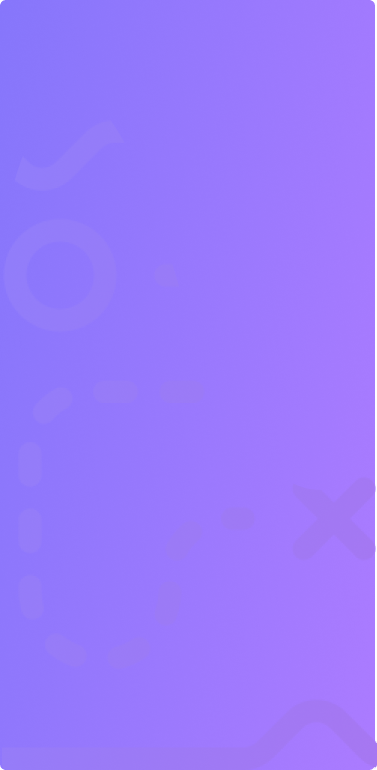
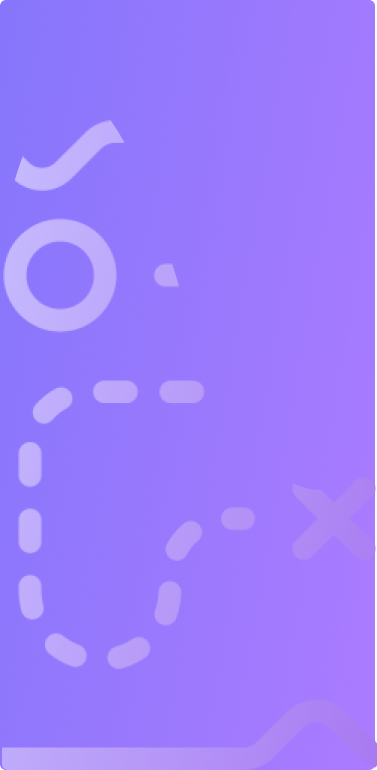
style

diff --git a/components/Pet.js b/components/Pet.js
@@ -1,6 +1,6 @@
 import { StatusBar } from 'expo-status-bar';
 import React from 'react';
-import { StyleSheet, Text, View, Image, TouchableHighlight } from 'react-native';
+import { StyleSheet, Text, View, Image, TouchableHighlight, ImageBackground } from 'react-native';
 import { Rating, Overlay } from 'react-native-elements';
 
 
@@ -10,16 +10,16 @@ export default class Pet extends React.Component {
     this.state = {
       happiness: 50,
       isVisible: false,
+      age: false
     }
   }
 
+
+
   render() {
     return (
-      <View>
-        <Overlay isVisible={this.state.isVisible}
-          onBackdropPress={() => this.setState({ isVisible: false })}>
-          <Text>Stats here</Text>
-        </Overlay>
+      
+      <View style={styles.container}>
         <View>
           <Rating
             type='heart'
@@ -29,24 +29,24 @@ export default class Pet extends React.Component {
           />
           <TouchableHighlight onPress={() => this.setState({ isVisible: true })}>
           <Image
-            style={styles.tinyLogo}
+            style={this.age ? styles.mediumLogo  : styles.smallLogo} 
             source={require('../assets/jack-russel-looping.gif')}
           />
           </TouchableHighlight>
           <View style={{ flex: 1, flexDirection: 'row', justifyContent: 'space-between', alignItems: 'stretch', marginHorizontal: 20 }}>
             <View style={{ flex: 1, height: 50 }} >
-              <View><Text style={{ color: "grey" }}> Dog - Jack Russel</Text>
+              <View><Text style={styles.boldText}> Dog - Beagle</Text>
               </View>
               <View>
-                <Text>John Smith</Text>
+                <Text style={styles.text}>Buddy The Good Boi</Text>
               </View>
             </View>
             <View style={{ flex: 1, height: 50, alignItems: 'flex-end' }} >
               <View>
-                <Text style={{ color: "grey" }}> Birthdate</Text>
+                <Text style={styles.boldText}> Birthdate</Text>
               </View>
               <View>
-                <Text>
+                <Text style={styles.text}>
                   10 July 2020
                 </Text>
               </View>
@@ -54,6 +54,7 @@ export default class Pet extends React.Component {
           </View>
         </View>
       </View>
+      
     )
   }
 };
@@ -61,11 +62,34 @@ export default class Pet extends React.Component {
 const styles = StyleSheet.create({
   container: {
     flex: 1,
-    backgroundColor: '#fff',
-    marginTop: 20
+    justifyContent: 'center',
+    alignItems: 'center',
   },
-  tinyLogo: {
-    width: 400,
+  text: {
+    marginTop: 10,
+    color: "grey",
+    fontSize: 12,
+    fontWeight: "bold"
+  },
+  boldText: {
+    marginTop: 10,
+    color: "black",
+    fontSize: 12,
+    fontWeight: "bold",
+  },
+  smallLogo: {
+    width: 300,
+    height: 200,
+    marginVertical: 75,
+  },
+  mediumLogo: {
+    width: 300,
     height: 300,
+    marginBottom: 25,
+  },
+  image: {
+    flex: 1,
+    resizeMode: "cover",
+    padding: 90,
   },
 });

diff --git a/screens/SelectAvatar.js b/screens/SelectAvatar.js
@@ -5,9 +5,10 @@ import { TouchableOpacity } from 'react-native-gesture-handler';
 
 export default function SelectAvatar(props) {
     return (
+        <ImageBackground source={require('./back.png')} style={styles.image}>
         <View style={styles.container}>
             <Text style={styles.text}>Choose Your Pet:</Text>
-            <ImageBackground source={require('./back.png')} style={styles.image}>
+            
             <Image
             style={styles.tinyLogo}
             source={require('./kitten.png')}
@@ -32,22 +33,21 @@ export default function SelectAvatar(props) {
             <TouchableOpacity style={styles.button} onPress={() => props.signedIn()}>
           <Text style={styles.buttonText}> PICK ME! </Text>
         </TouchableOpacity>
-        </ImageBackground>
 
         </View>
+        </ImageBackground>
     )
 
 }
 
 const styles = StyleSheet.create({
     container : {
-      backgroundColor: "#8E7EFB",
       flex: 1,
       justifyContent: 'center',
-      alignItems: 'center'
+      alignItems: 'center',
     },
     text: {
-        marginTop: 100,
+        marginBottom: 50,
         color: "black",
         fontSize: 30,
         fontWeight: "bold"
@@ -61,7 +61,7 @@ const styles = StyleSheet.create({
     image: {
       flex: 1,
       resizeMode: "cover",
-      justifyContent: "center"
+      justifyContent: "center",
     },
     button : {
         backgroundColor:'rgba(255, 255, 255, 0.3)',

diff --git a/screens/home.js b/screens/home.js
@@ -1,26 +1,33 @@
 import * as React from 'react';
-import { StyleSheet, Text, View } from 'react-native';
+import { StyleSheet, Text, View, ImageBackground } from 'react-native';
 import { NavigationContainer } from '@react-navigation/native';
 import { createBottomTabNavigator } from '@react-navigation/bottom-tabs';
 import Pet from '../components/Pet'
 
 function HomeScreen() {
   return (
+    <ImageBackground source={require('./back_light.png')} style={styles.image}>
     <View style={styles.container }>
       <Pet /> 
     </View>
+    </ImageBackground>
   );
 }
 
 const styles = StyleSheet.create({
   container: {
     flex: 1,
-    backgroundColor: '#fff',
     marginTop: 20
   },
   tinyLogo: {
     width: 400,
     height: 300,
+  },
+  image: {
+    flex: 1,
+    resizeMode: "cover",
+    padding: 90,
+    
   },
 });
 export default HomeScreen;

diff --git a/App.js b/App.js
@@ -30,7 +30,6 @@ export default function App() {
           <Tab.Screen name="Home" component={HomeScreen} />
           <Tab.Screen name="Map" component={MapScreen} />
           <Tab.Screen name="Chat" component={ChatScreen} />
-          <Tab.Screen name="Settings" component={SettingsScreen} />
           <Tab.Screen name="Game" component={GameScreen} />
         </Tab.Navigator>
       </NavigationContainer>

diff --git a/screens/LogIn.js b/screens/LogIn.js
@@ -51,7 +51,7 @@ const styles = StyleSheet.create({
   image: {
     flex: 1,
     resizeMode: "cover",
-    justifyContent: "center"
+    paddingHorizontal: 90,
   },
   text: {
     color: "black",

diff --git a/screens/Dog.js b/screens/Dog.js
@@ -9,6 +9,7 @@ export default function Dog() {
             width:200,
             height:200,
             marginBottom: 10,
+            marginTop: 100,
             
         }
     });
